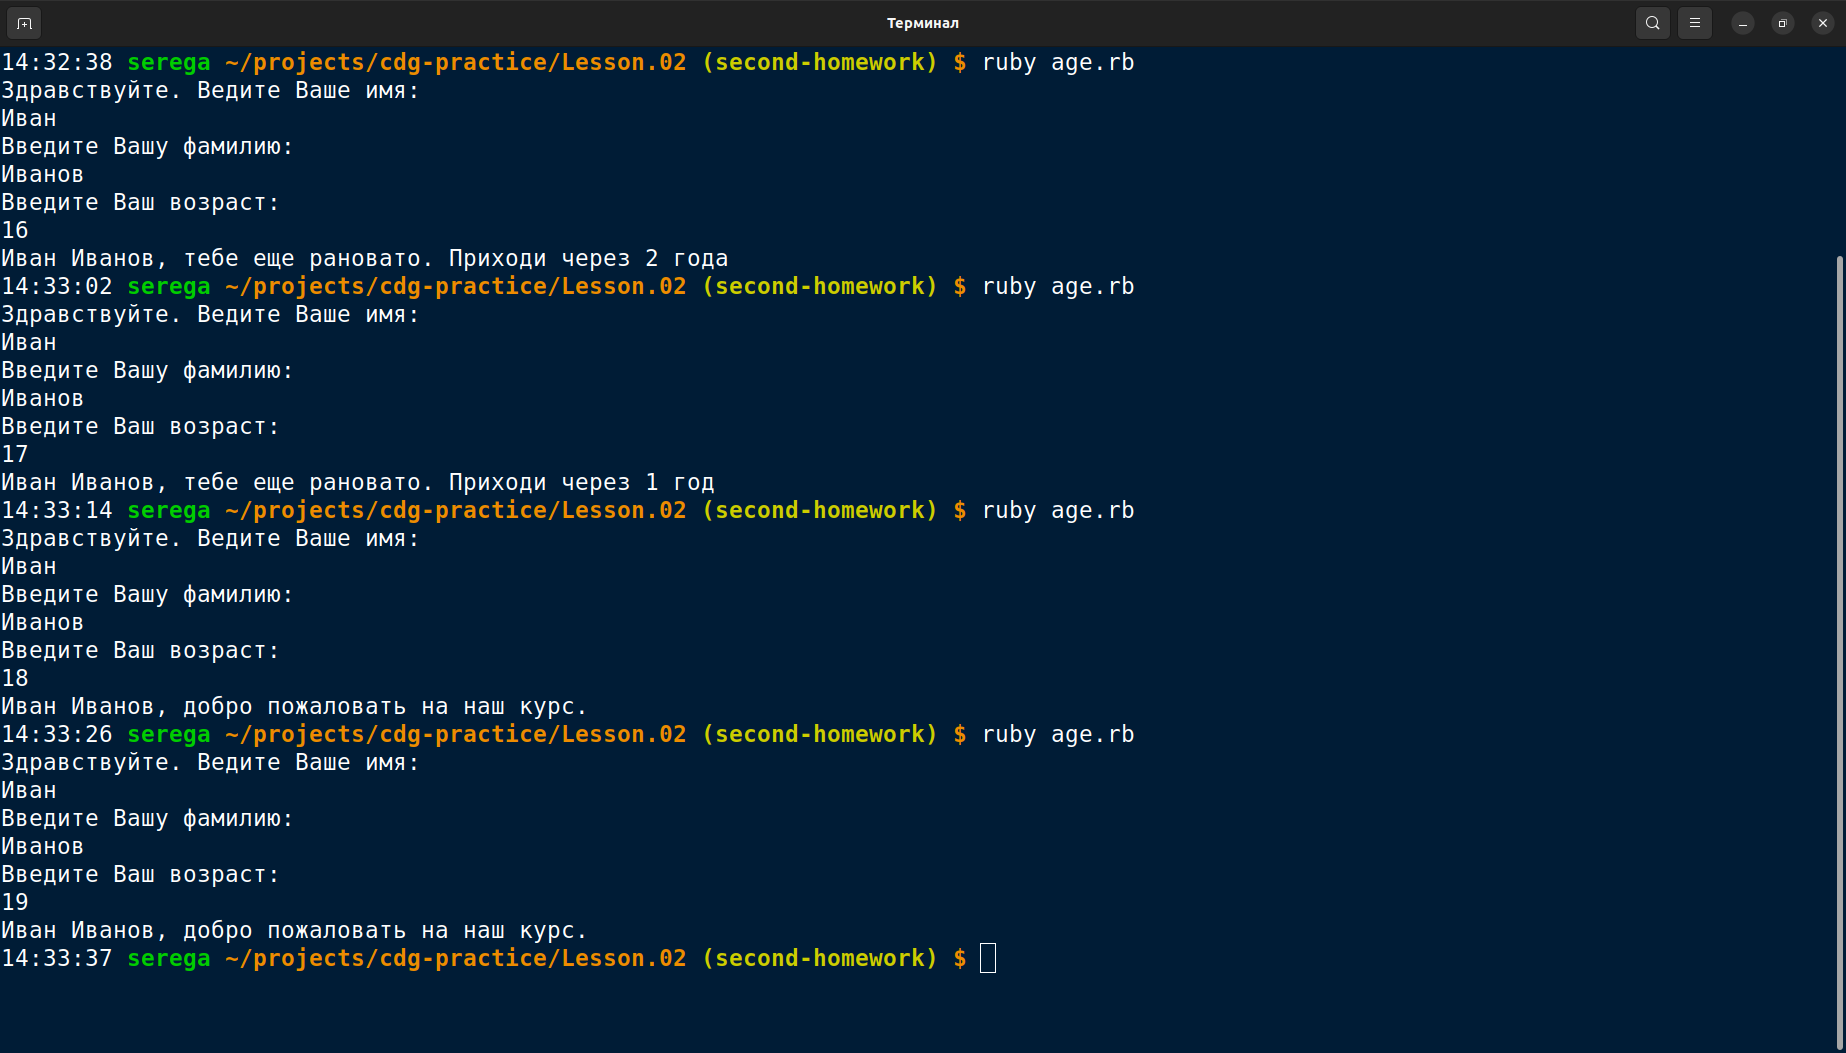
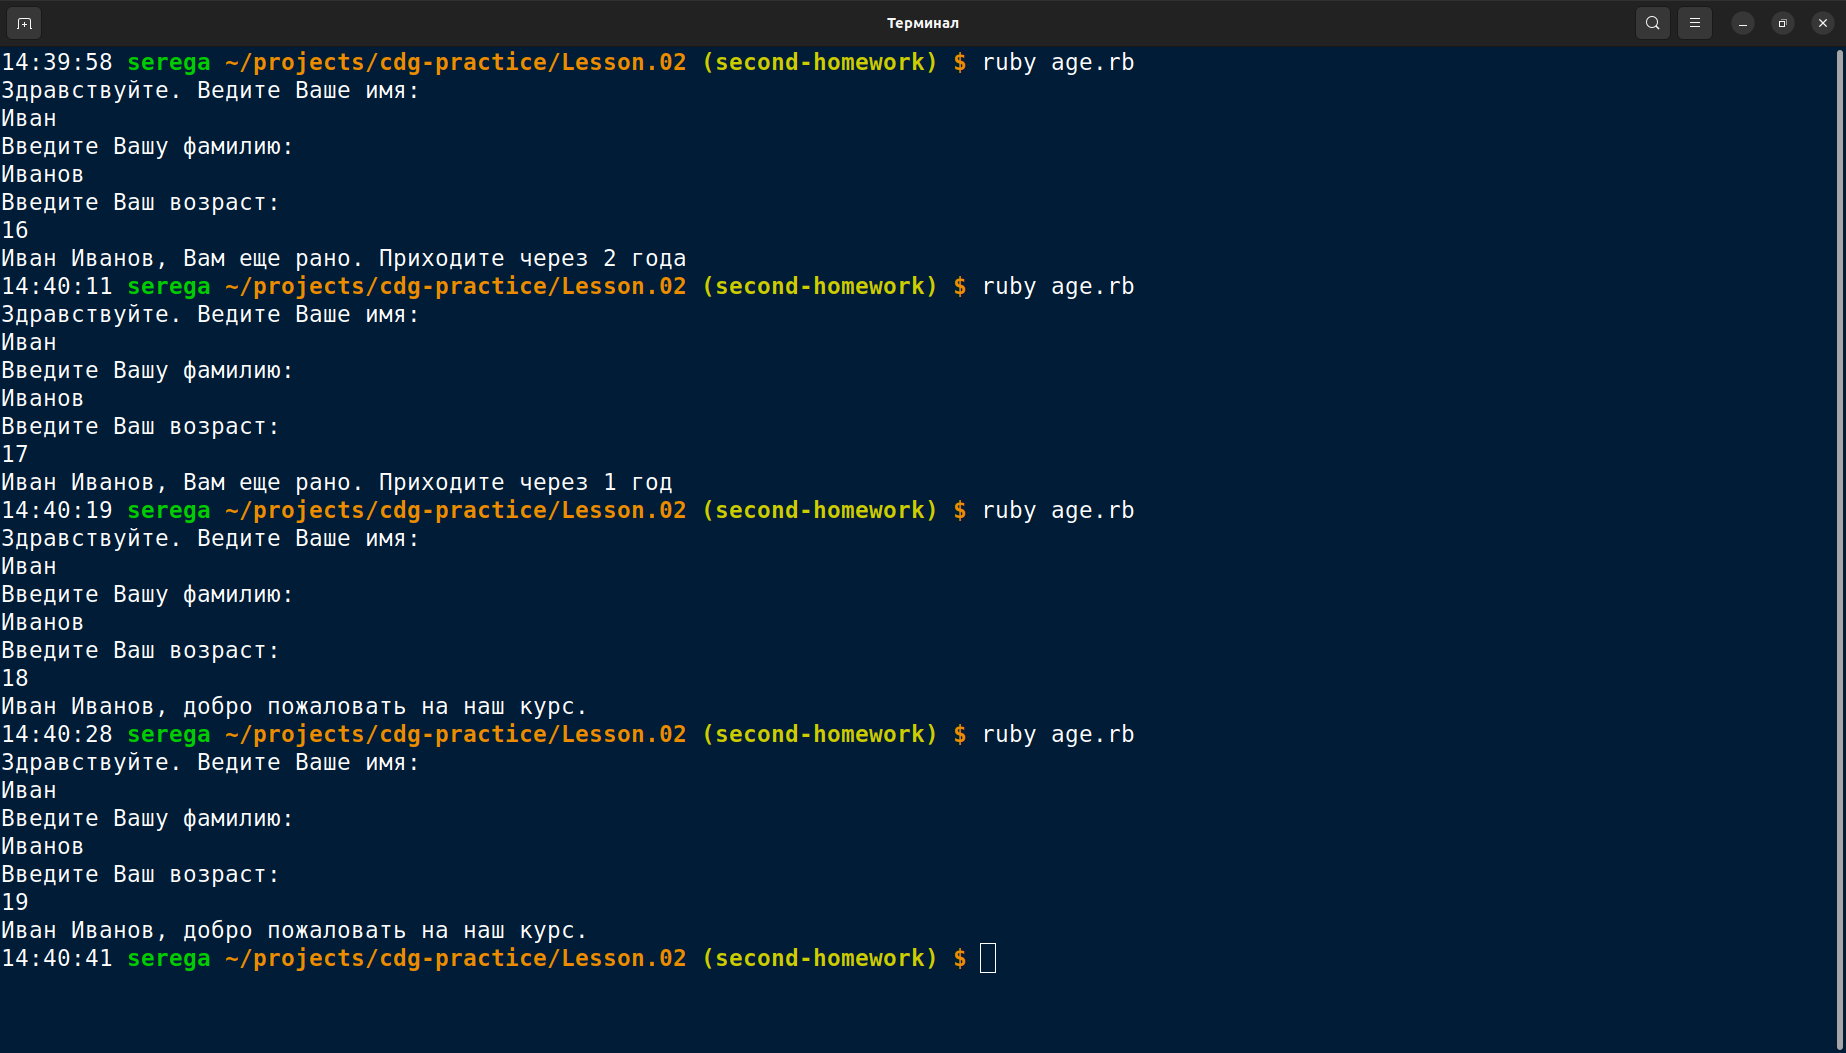
Edited file program and replace screenshot

diff --git a/Lesson.02/age.rb b/Lesson.02/age.rb
@@ -22,7 +22,7 @@ def gradient_age
 end
 
 def pass
-  return @age >= 18 ? ("#{@name} #{@surname}, добро пожаловать на наш курс.") : ("#{@name} #{@surname}, Вам еще рано. Приходи через #{@difference_age} #{gradient_age}")
+  return @age >= 18 ? ("#{@name} #{@surname}, добро пожаловать на наш курс.") : ("#{@name} #{@surname}, Вам еще рано. Приходите через #{@difference_age} #{gradient_age}")
 end
 
 puts pass
